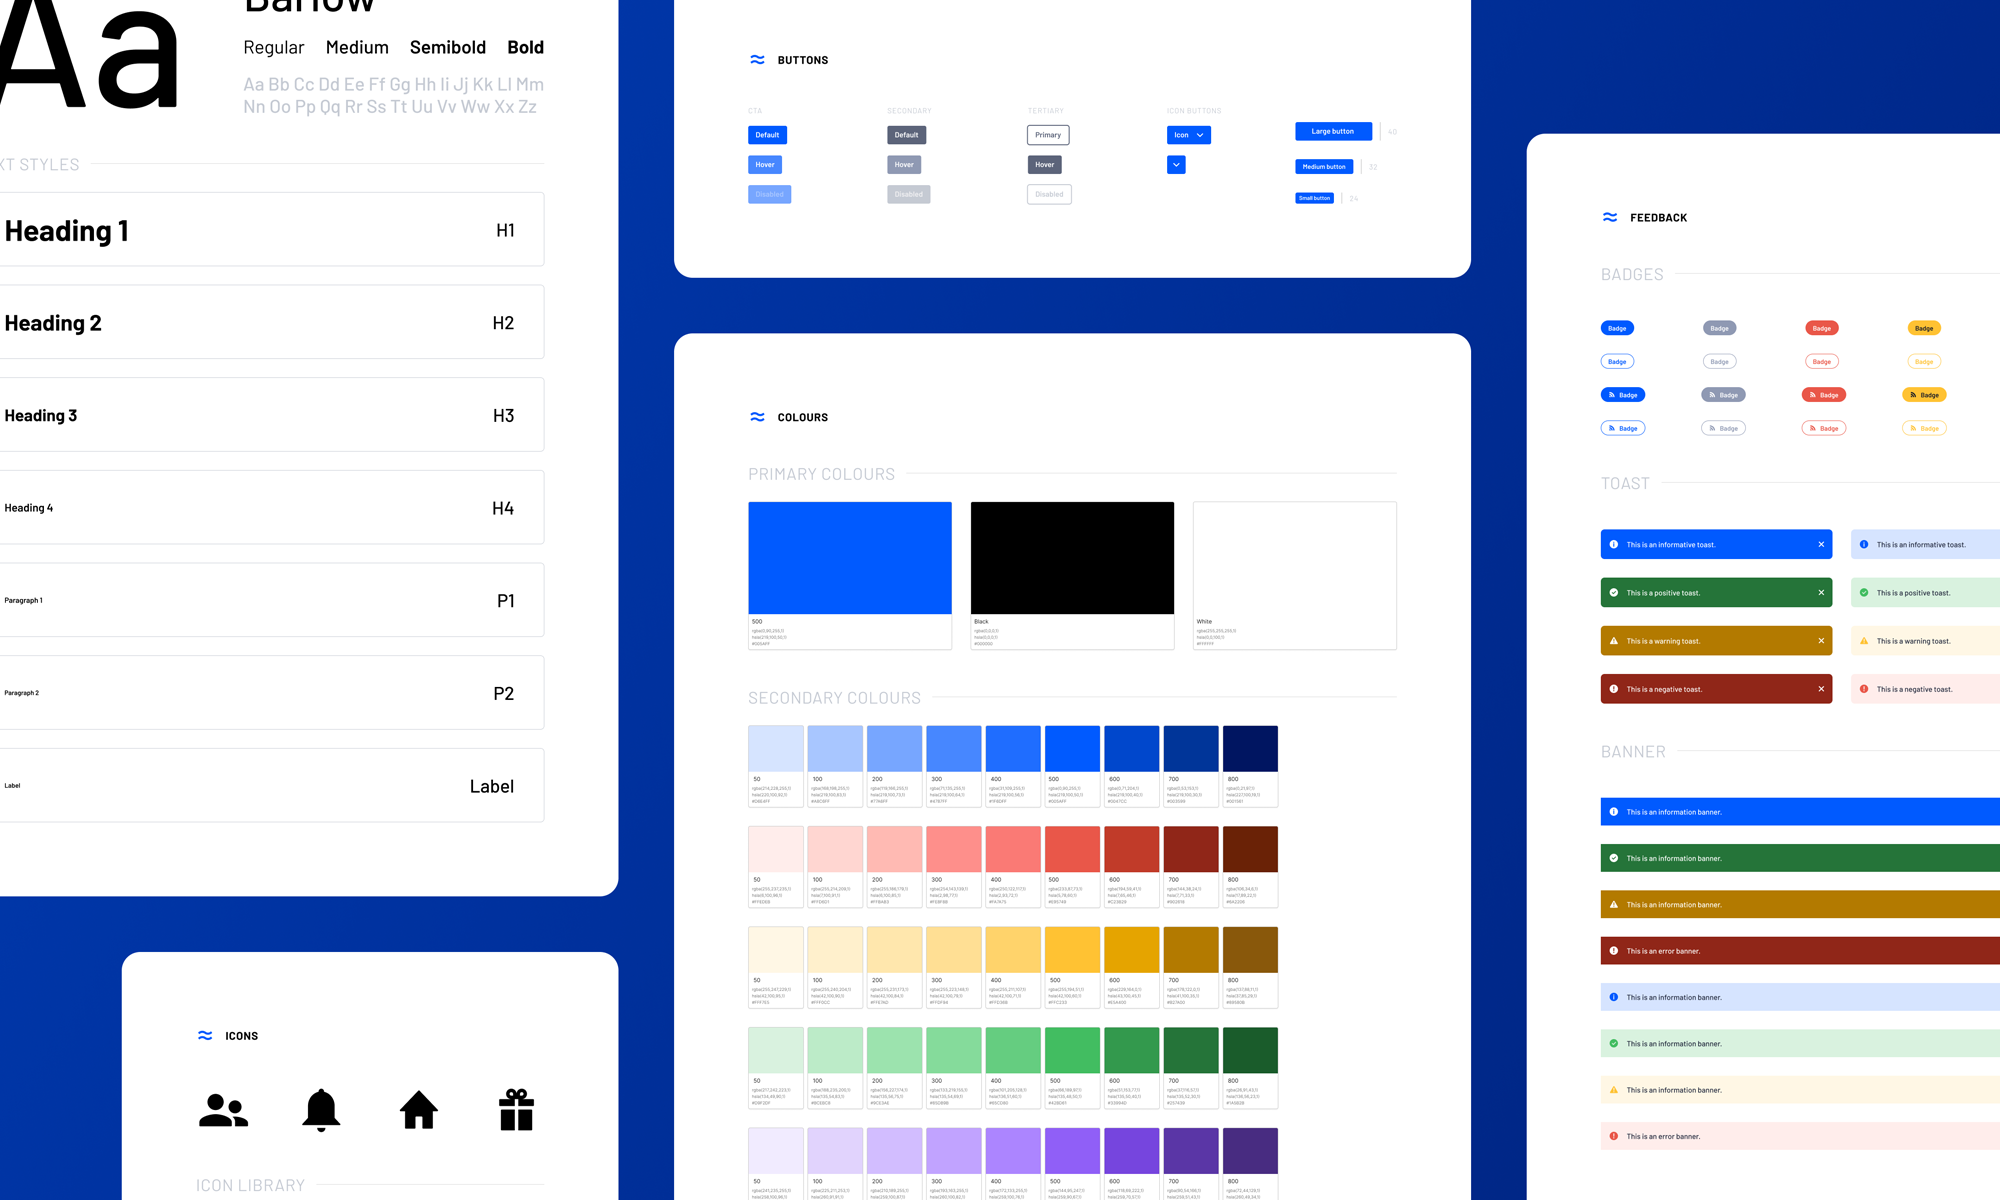
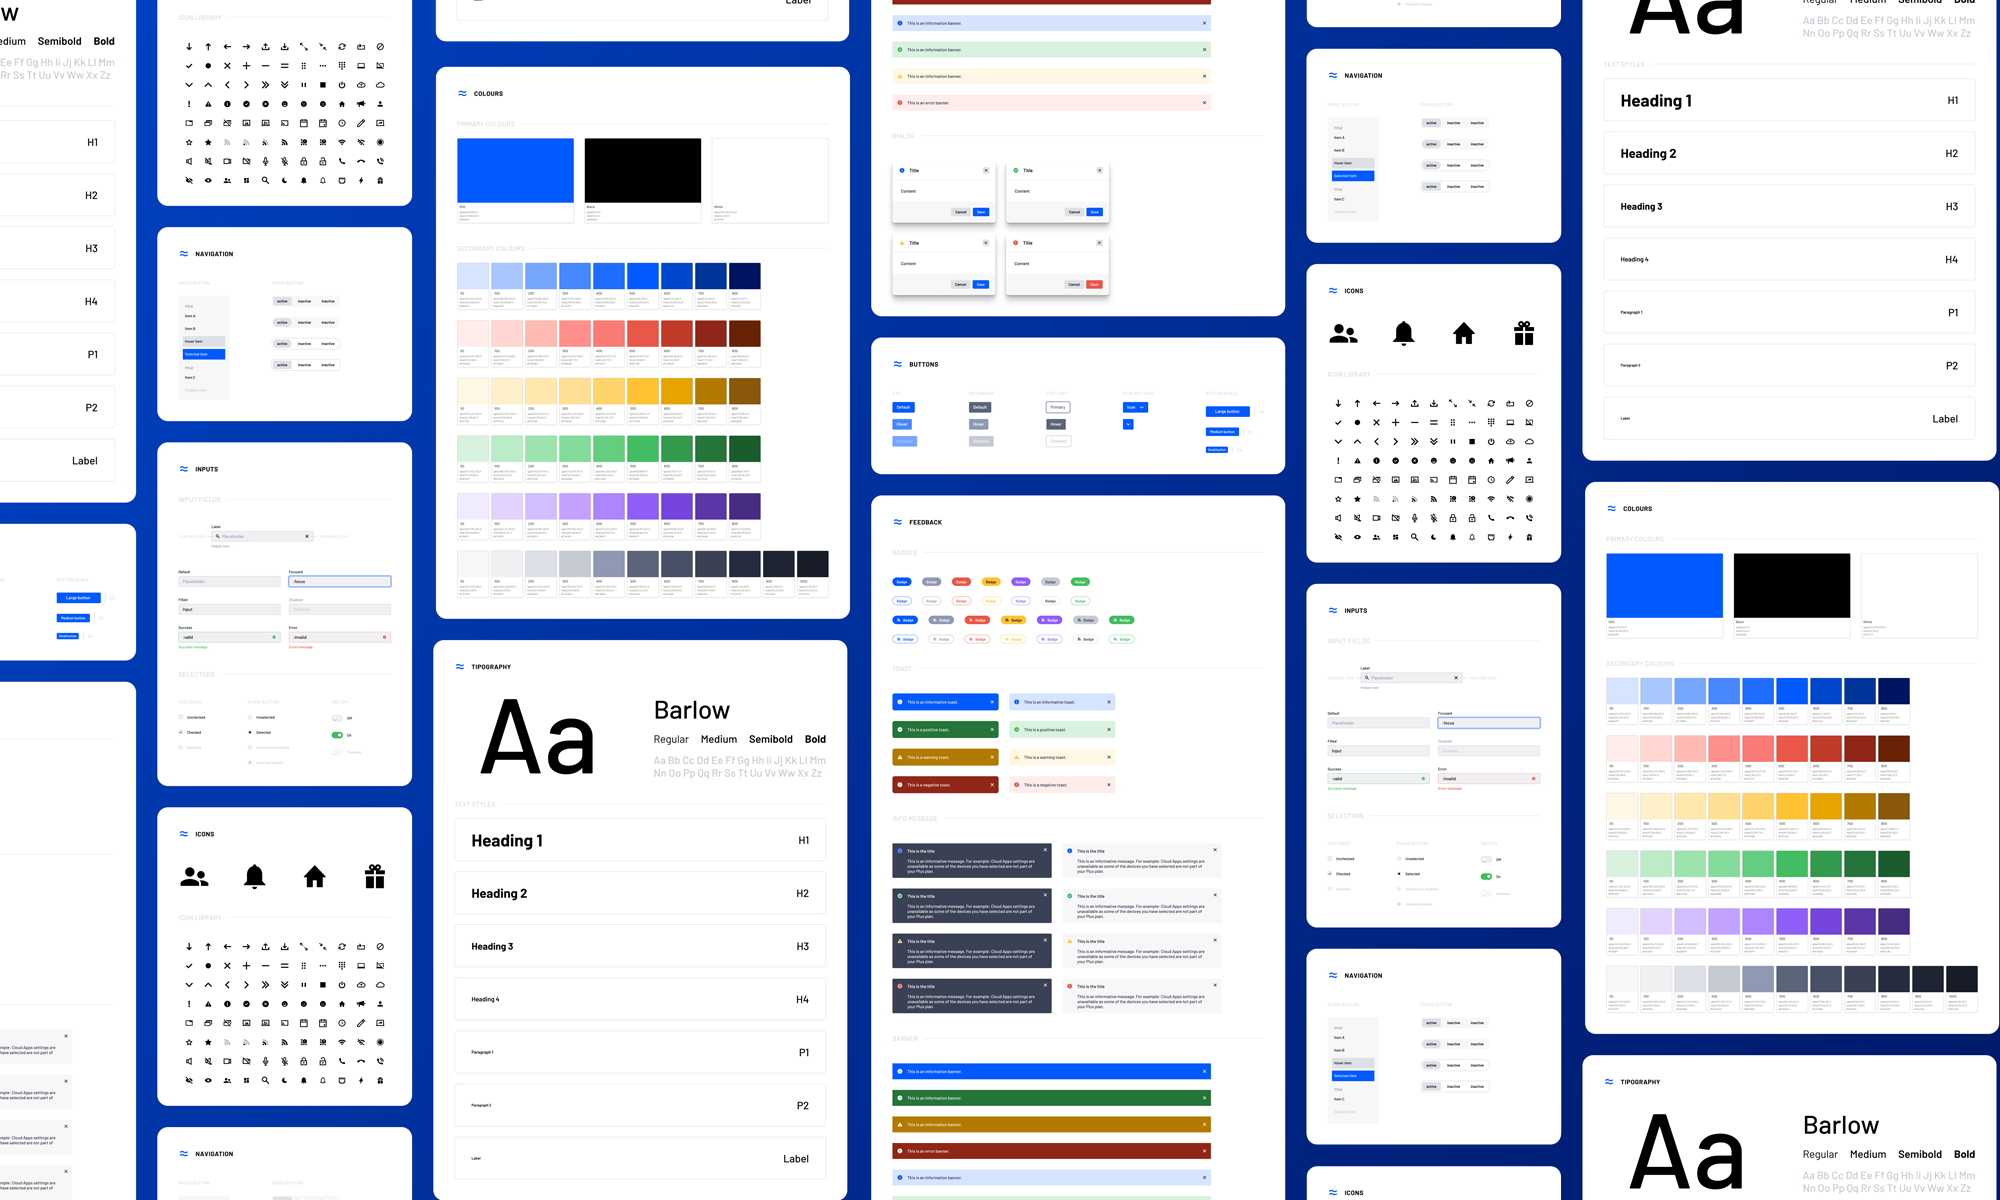
chore: Various changes * Final images for second project * Introduced new one column layout for images * Copy changes on home and about hero * Open linkedin on another window

diff --git a/pages/projects/airtame-ui-design-system.tsx b/pages/projects/airtame-ui-design-system.tsx
@@ -1,5 +1,6 @@
 import Head from 'next/head';
 import {useRouter} from 'next/router';
+import ImageBlock from '~/components/ImageBlock';
 import Layout from '~/components/Layout';
 import TextBlock from '~/components/TextBlock';
 
@@ -30,7 +31,7 @@ export default function AirtameUIDesignSystem() {
         details={{
           challenge:
             'How might we create a satisfying experience that makes finding, selecting and managing a device(s) feel quick, intuitive and efficient?',
-          role: 'Role Design Systems, Project Management, Documentation, Workshop facilitation',
+          role: 'Design Systems, Project Management, Documentation, Workshop facilitation',
           year: '2020 - 2022',
         }}
       >
@@ -46,17 +47,89 @@ export default function AirtameUIDesignSystem() {
           ]}
         />
 
-        <div className="grid grid-cols-1 md:grid-cols-3 gap-4 my-20">
-          <div className="col-span-1">
-            <div className="w-full h-98 rounded bg-gray-200"></div>
-          </div>
-          <div className="col-span-1">
-            <div className="w-full h-98 rounded bg-gray-200"></div>
-          </div>
-          <div className="col-span-1">
-            <div className="w-full h-98 rounded bg-gray-200"></div>
-          </div>
-        </div>
+        <ImageBlock
+          type="two-cols"
+          images={[
+            {
+              src: `/images/projects/${PROJECT_DETAILS.slug}/CS_B_01.png`,
+              alt: 'Typography',
+              width: 1560,
+              height: 2112,
+            },
+            {
+              src: `/images/projects/${PROJECT_DETAILS.slug}/CS_B_02.png`,
+              alt: 'Colours',
+              width: 1560,
+              height: 2112,
+            },
+          ]}
+        />
+
+        <ImageBlock
+          type="one-col"
+          images={[
+            {
+              src: `/images/projects/${PROJECT_DETAILS.slug}/CS_B_03.png`,
+              alt: 'Icons',
+              width: 1560,
+              height: 880,
+            },
+          ]}
+        />
+
+        <ImageBlock
+          type="one-col"
+          images={[
+            {
+              src: `/images/projects/${PROJECT_DETAILS.slug}/CS_B_04.png`,
+              alt: 'Feedback',
+              width: 4680,
+              height: 9040,
+            },
+          ]}
+        />
+
+        <ImageBlock
+          type="three-cols"
+          images={[
+            {
+              src: `/images/projects/${PROJECT_DETAILS.slug}/CS_B_05.png`,
+              alt: 'Buttons',
+              width: 1560,
+              height: 3675,
+            },
+            {
+              src: `/images/projects/${PROJECT_DETAILS.slug}/CS_B_06.png`,
+              alt: 'Inputs',
+              width: 1560,
+              height: 3675,
+            },
+            {
+              src: `/images/projects/${PROJECT_DETAILS.slug}/CS_B_07.png`,
+              alt: 'Navigation',
+              width: 1560,
+              height: 3675,
+            },
+          ]}
+        />
+
+        <ImageBlock
+          type="two-cols"
+          images={[
+            {
+              src: `/images/projects/${PROJECT_DETAILS.slug}/CS_B_08.png`,
+              alt: 'Inputs-two',
+              width: 1560,
+              height: 3675,
+            },
+            {
+              src: `/images/projects/${PROJECT_DETAILS.slug}/CS_B_09.png`,
+              alt: 'Dialogs',
+              width: 1560,
+              height: 3675,
+            },
+          ]}
+        />
 
         <TextBlock
           title="What we did"

diff --git a/pages/about.tsx b/pages/about.tsx
@@ -25,16 +25,15 @@ export default function About() {
         <div className="mt-20 mb-20 grid grid-cols-1 lg:grid-cols-2 gap-10 items-center">
           <div className="self-start">
             <h2 className="mb-10 text-3-1/2xl text-black dark:text-white">
-              I'm Ana, a Product and Visual designer specialised in UI and
-              Design Systems.
+              I'm Ana, a Product and Visual designer specialised in detailed
+              interfaces and passionate about components, who always finds an excuse to draw
+              something.
             </h2>
             <p className="text-xl text-black dark:text-white">
               Originally from Ushuaia, Argentina, also known as the southernmost
               city in the world. At a young age I moved to the other side of the
-              country to follow my passion for art, illustration and design,
-              where I got my bachelor in Graphic Design. I've worked as a Visual
-              Designer and UI/UX Designer in some of the most recognizable
-              design and digital agencies.
+              country to follow my passion for art, illustration and design. I've worked in some of the most recognizable
+              design and digital agencies for over 8 years.
               <br />
               <br />
               Following that direction, a few years ago I sold everything and

diff --git a/components/ImageBlock.tsx b/components/ImageBlock.tsx
@@ -1,7 +1,7 @@
 import Image, {ImageProps} from 'next/image';
 
 interface Props {
-  type: 'two-cols' | 'three-cols';
+  type: 'one-col' | 'two-cols' | 'three-cols';
   images: Array<ImageProps & {caption?: string}>;
 }
 
@@ -10,16 +10,22 @@ export default function ImageBlock({type, images}: Props) {
   const imageClass = isRelative
     ? 'h-auto max-w-full max-h-full object-cover'
     : '';
+  const gridClass =
+    type === 'two-cols'
+      ? 'xl:grid-cols-2'
+      : type === 'three-cols'
+      ? 'xl:grid-cols-3'
+      : '';
 
   return (
     <div
-      className={`grid gap-4 my-20 grid-cols-1 ${
-        type === 'two-cols' ? 'xl:grid-cols-2' : 'xl:grid-cols-3'
-      } ${isRelative ? 'relative' : ''}`}
+      className={`grid gap-4 my-20 grid-cols-1 ${gridClass} ${
+        isRelative ? 'relative' : ''
+      }`}
     >
       {images.map(img => (
         <div key={`image-${img.alt}`} className="col-span-1">
-          <Image {...img} className={`w-full rounded ${imageClass}`} />
+          <Image {...img} className={`rounded ${imageClass}`} />
 
           {img.caption ? (
             <p className="mt-4 text-base text-black dark:text-white">

diff --git a/pages/index.tsx b/pages/index.tsx
@@ -16,9 +16,8 @@ export default function Home() {
         based in Copenhagen.`}
       >
         <h2 className="mt-10 text-2xl text-black dark:text-white">
-          I have a strong UI background, and a passion for Design Systems. My
-          goal is to build digital products that impact people in a positive
-          way.
+          I enjoy defining the right problems just as much as solving them
+          through design, where my strong UI background comes in handy.
         </h2>
         <h3 className="mt-20 md:mt-40 mb-10 text-4-1/2xl text-black dark:text-white">
           Selected <b>work</b>

diff --git a/components/Layout.tsx b/components/Layout.tsx
@@ -124,6 +124,8 @@ export default function Layout({
                 type="primary"
                 size="small"
                 title="linkedin"
+                target="_blank"
+                rel="noreferrer"
               />
               <LinkButton
                 href="/docs/Ana_Laudado_2023.pdf"
